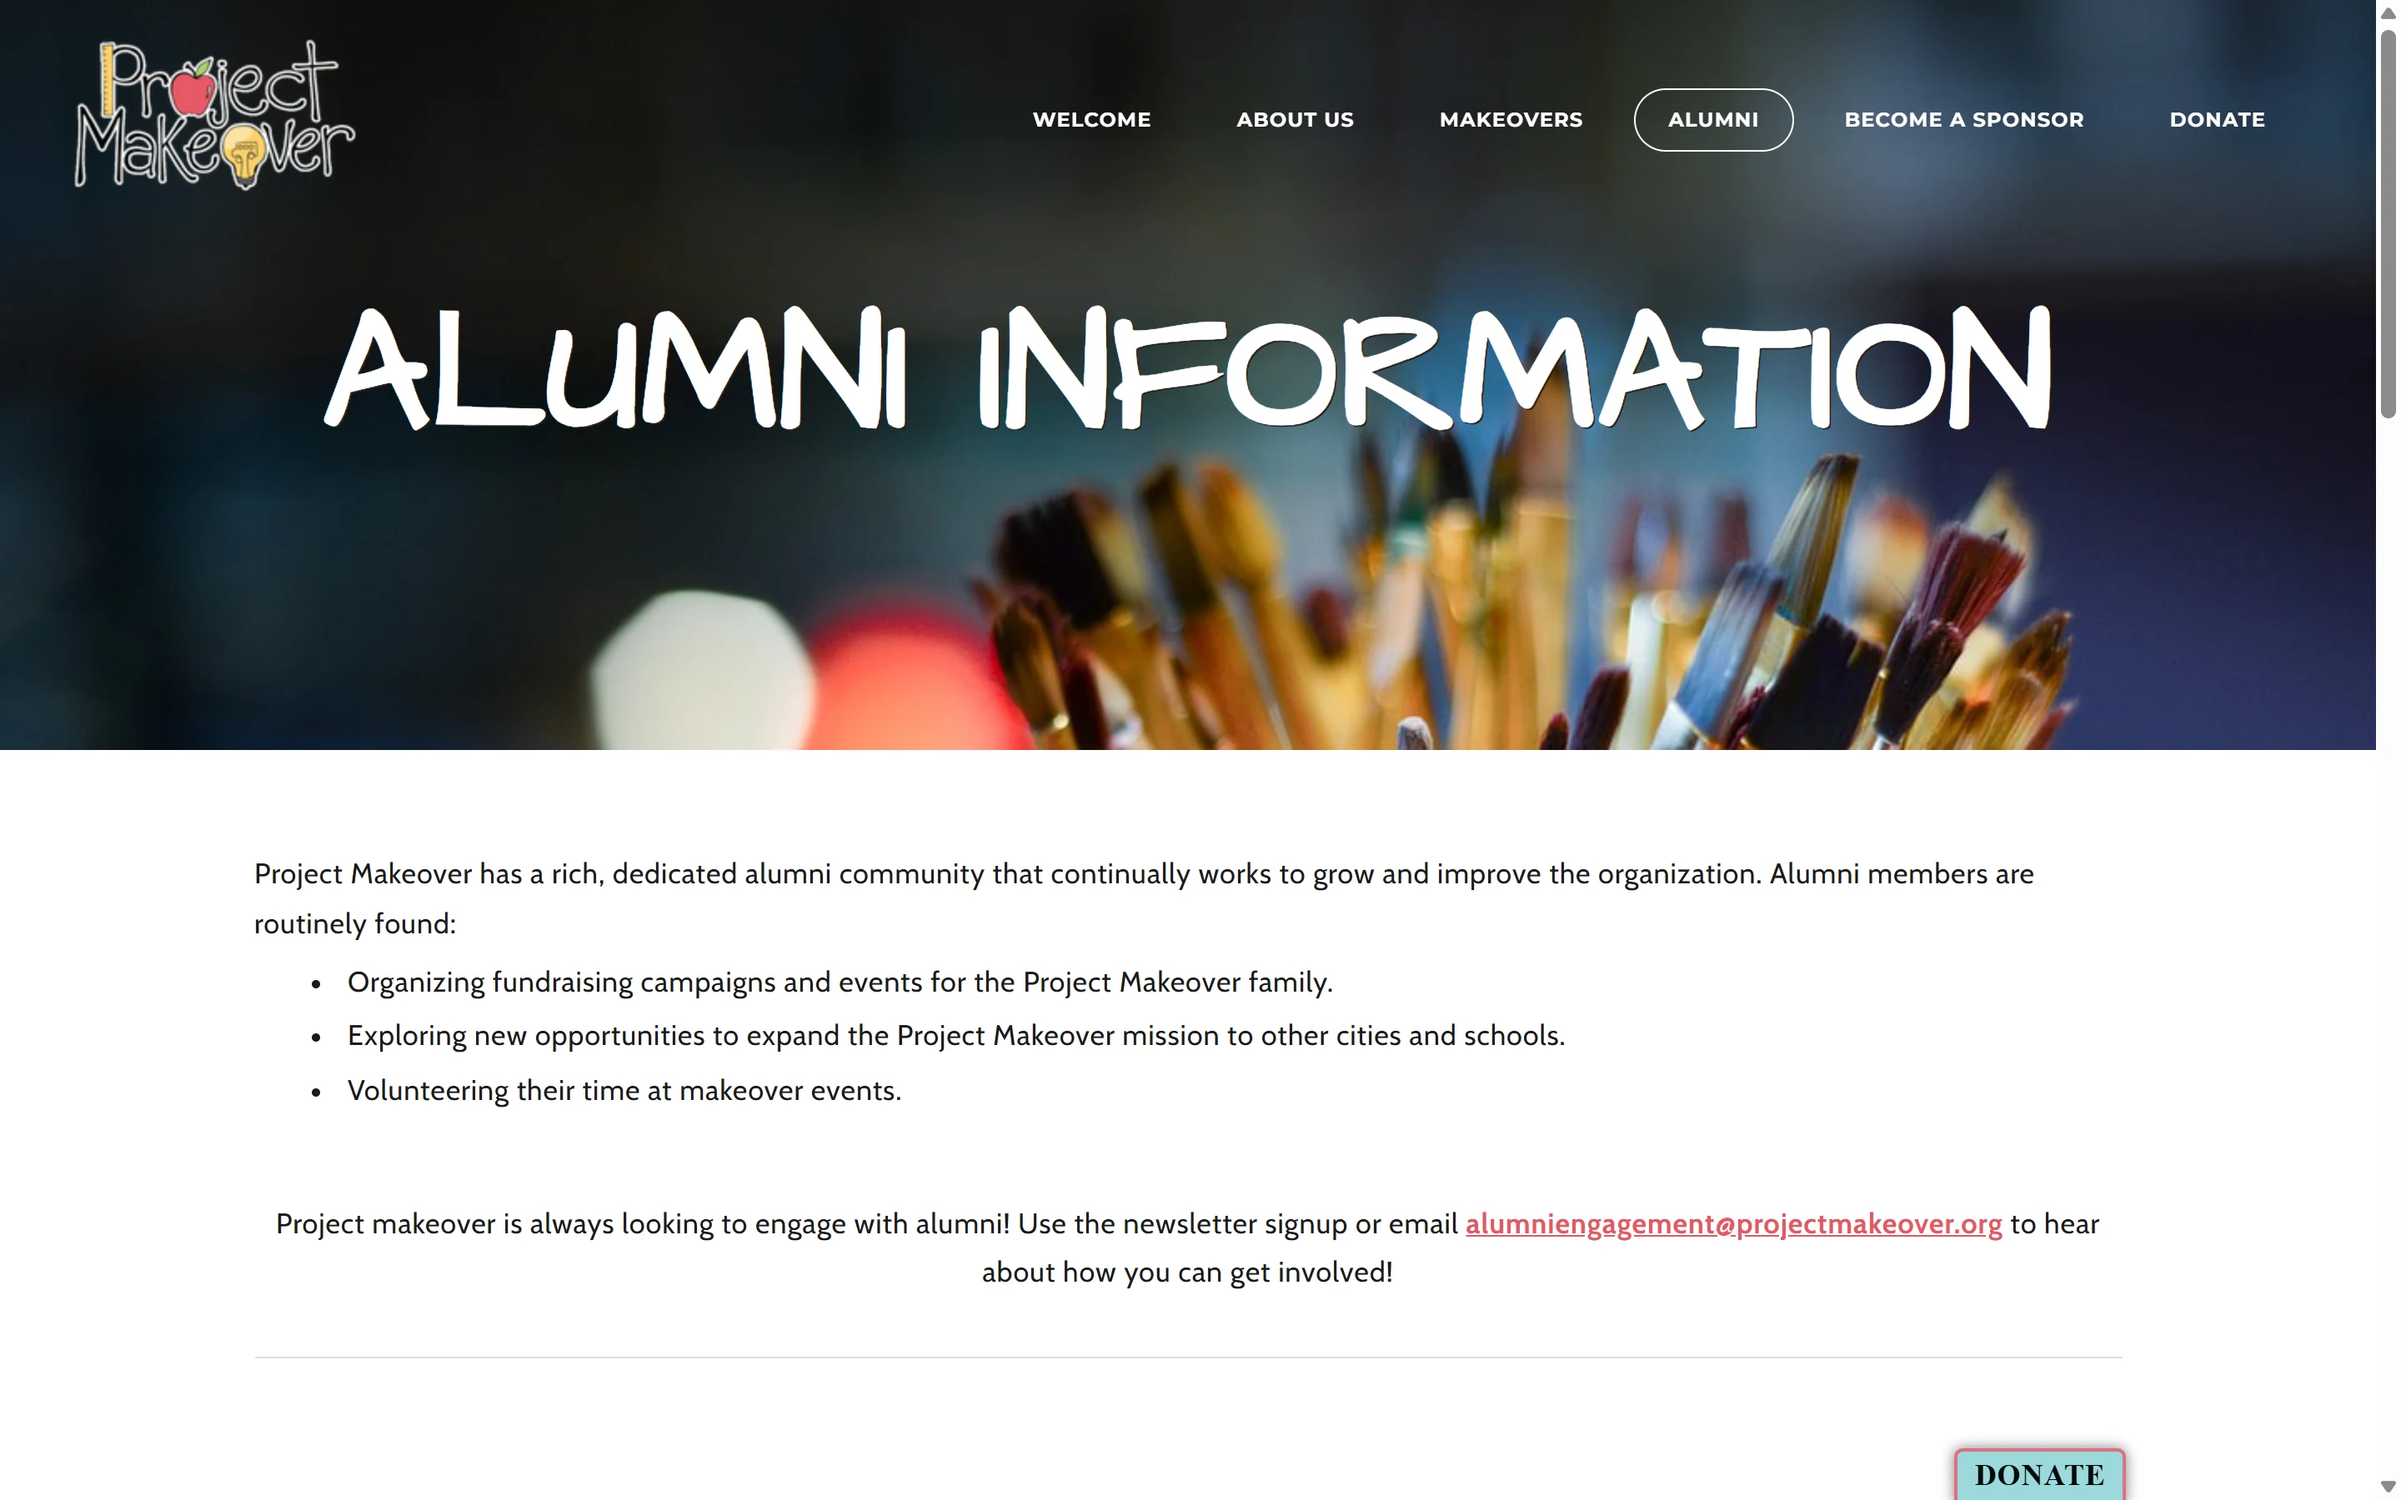
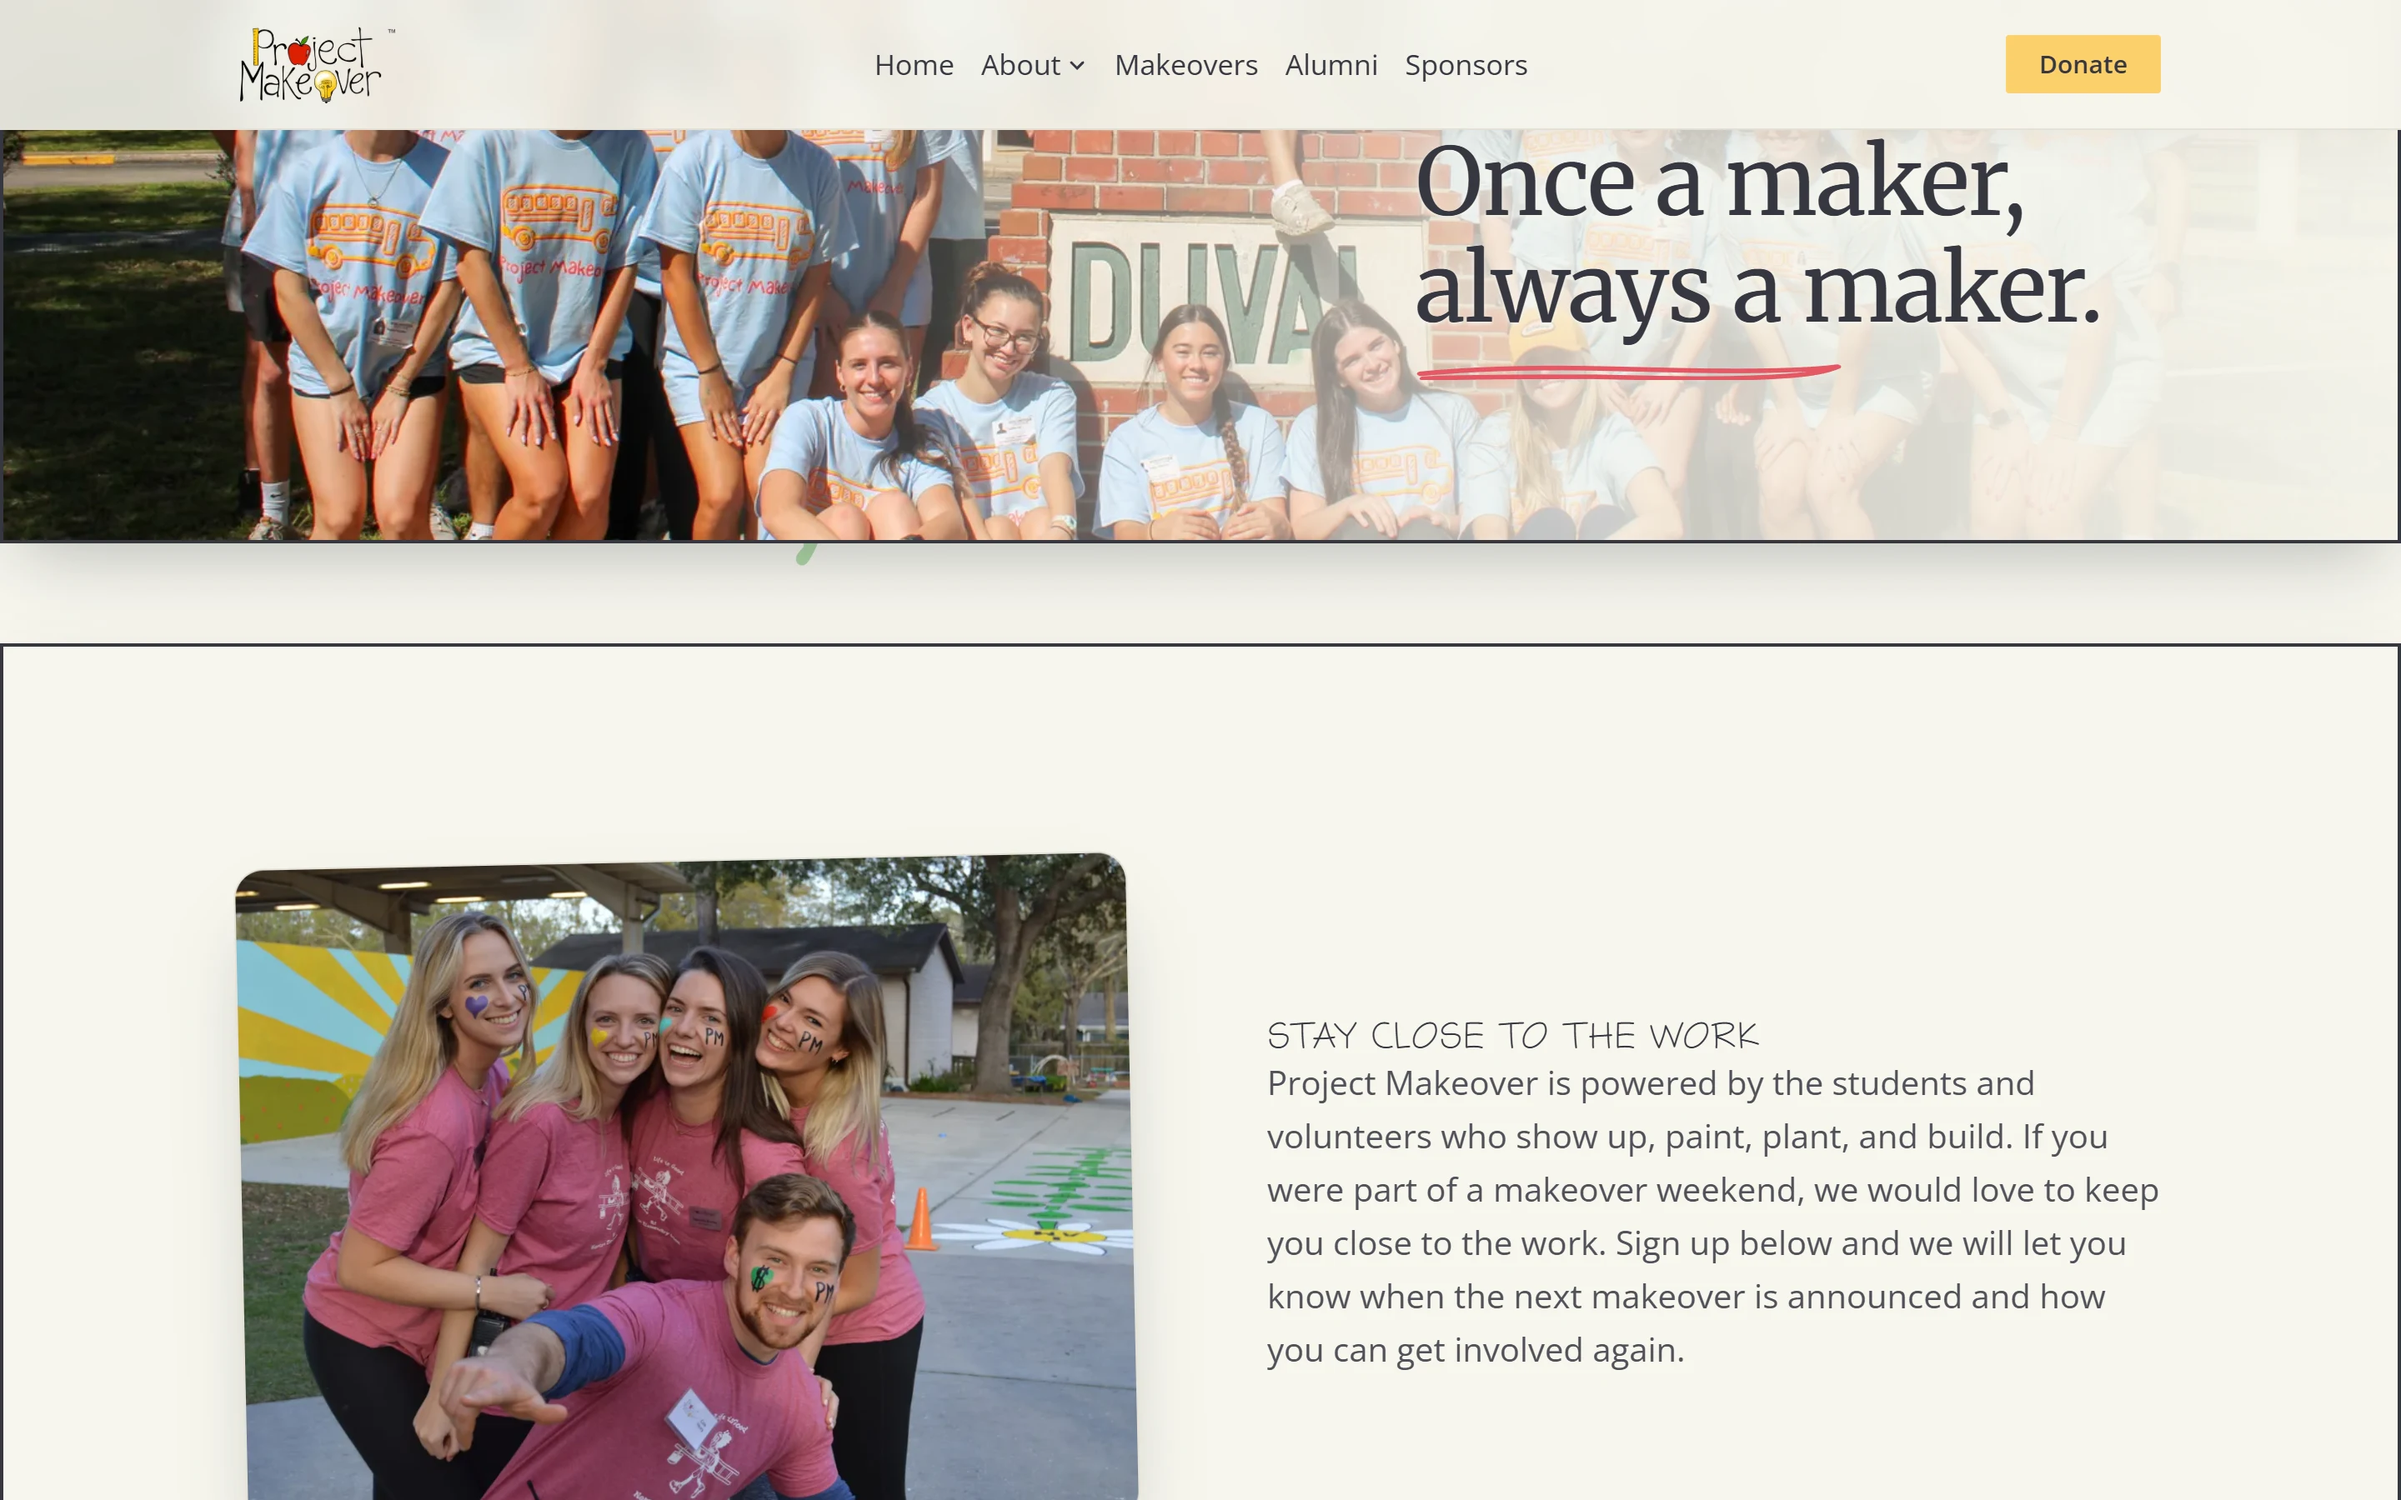
Recapture Project Makeover tiles from the rebuilt site
Alex rebuilt projectmakeover.org, so the three portfolio captures were of a
site that no longer exists. Recaptured at the house spec: 1440x900 viewport
at deviceScaleFactor 2, scrollbar suppressed, webp q88, 2880x1800.

The two inner pages are captured a few hundred pixels down rather than at the
very top. At scroll 0 the makeovers page is mostly empty grass behind the
headline and alumni is hero plus dead space; scrolled, one lands on the Duval
Dragons card with the arch gallery and the other on the alumni photo and copy.

Every reference now carries ?v=2. /images/* has a 24 hour cache header, so
reusing the bare URL would have served the old picture for a day. That
includes the hero tile on the web design service page, which is a second
consumer of work-pmbuild.webp beyond the home hero.

diff --git a/src/data/work.js b/src/data/work.js
@@ -3,8 +3,8 @@
 export const stackExtras = [
   { img: '/images/work-extras/fdaaf-project.webp' },
   { img: '/images/work-extras/fdaaf-projects.webp' },
-  { img: '/images/work-extras/pmbuild-makeovers.webp' },
-  { img: '/images/work-extras/pmbuild-alumni.webp' },
+  { img: '/images/work-extras/pmbuild-makeovers.webp?v=2' },
+  { img: '/images/work-extras/pmbuild-alumni.webp?v=2' },
   { img: '/images/work-extras/fixalways-hvac.webp' },
   { img: '/images/work-extras/fixalways-plumbing.webp' },
   { img: '/images/work-extras/familypractice-dpc.webp' },
@@ -36,7 +36,7 @@ export const projects = [
     slug: 'project-makeover',
     title: 'Project Makeover',
     blurb: 'A nonprofit transforming school spaces into vibrant learning environments. A joyful, gallery-driven site with donation and makeover-showcase paths built for community momentum.',
-    img: '/images/work-pmbuild.webp',
+    img: '/images/work-pmbuild.webp?v=2',
   },
   {
     slug: 'fixalways',
